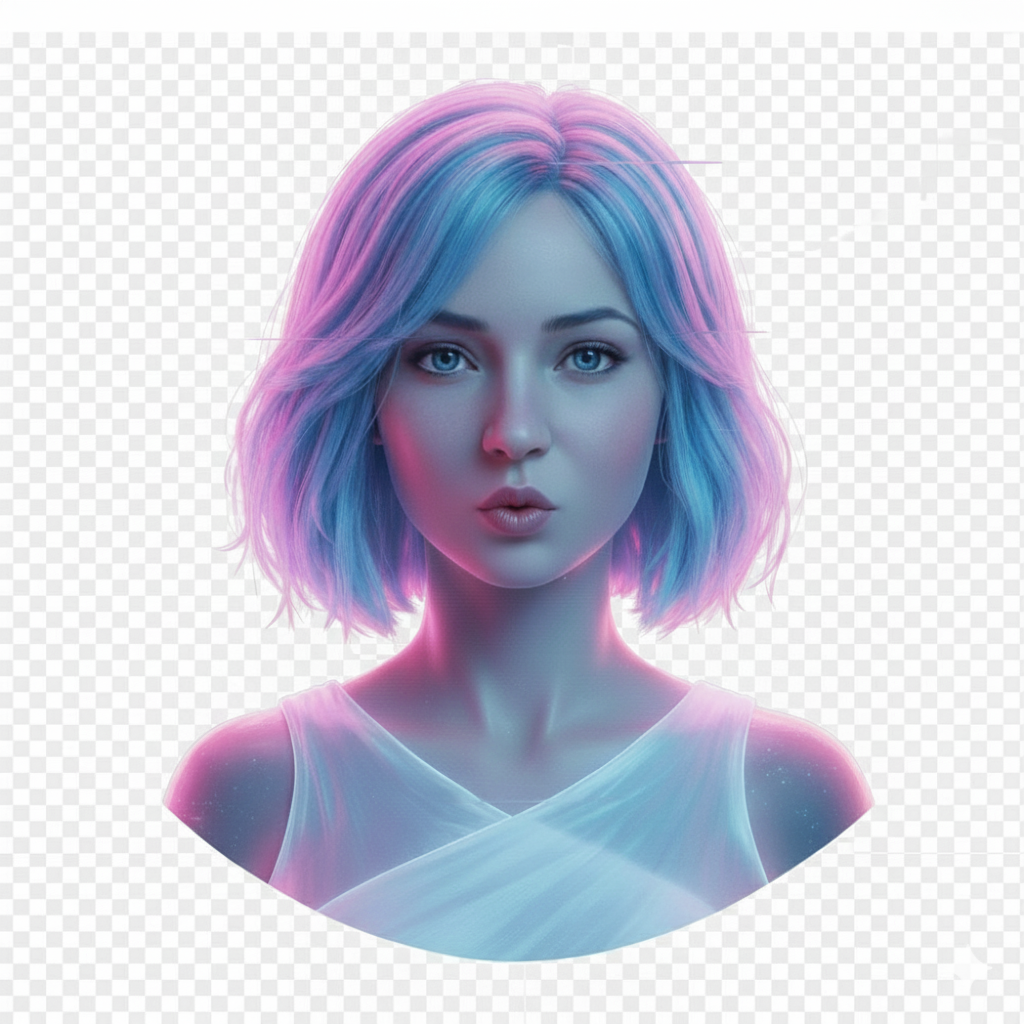
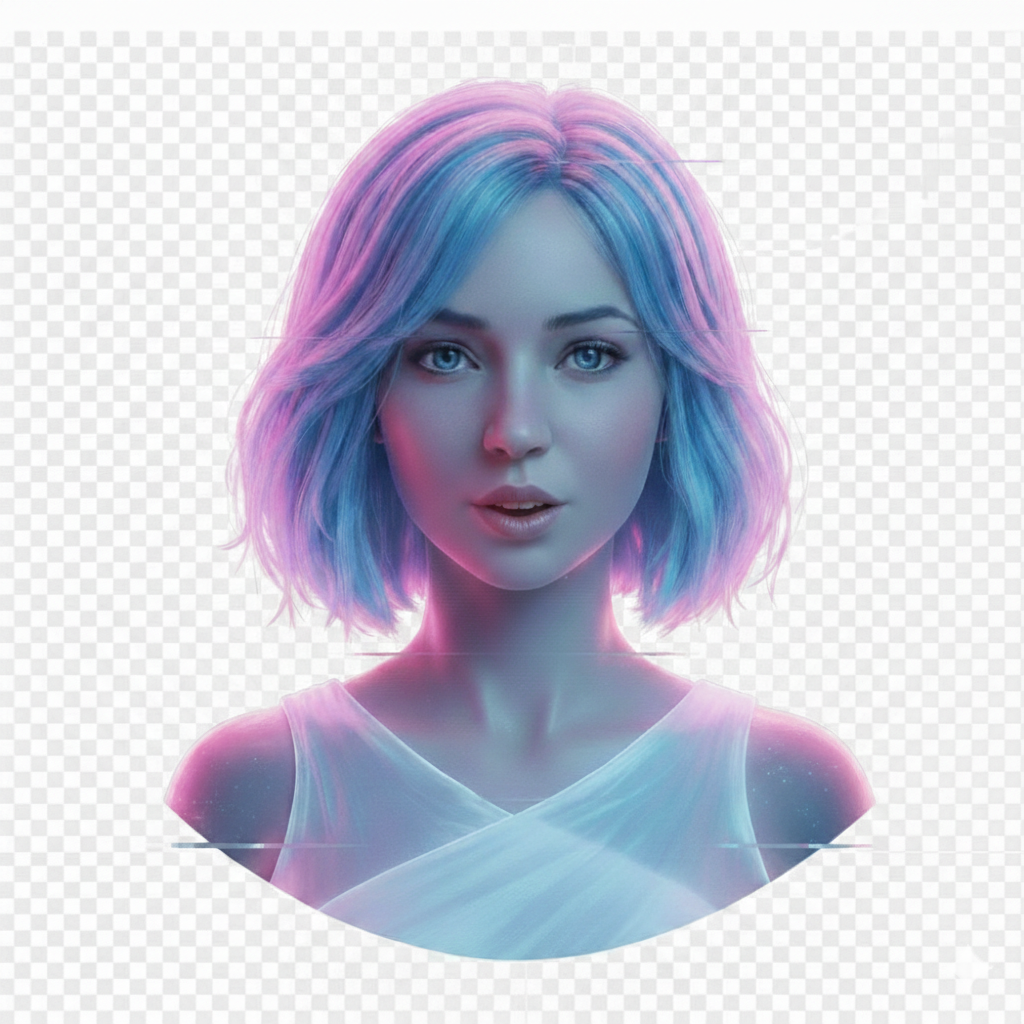
polish: swap to subtler O viseme, remap A/AI phonemes away from wide-open ah

diff --git a/app/ui/components/avatar_js.py b/app/ui/components/avatar_js.py
@@ -233,7 +233,7 @@ def render_avatar(phoneme_timeline, audio_data=None, expression="neutral", audio
         // ── Phoneme to asset mapping ──────────────────────
         const phonemeMap = {{
             "rest": null,
-            "A":    assets["ah"],
+            "A":    assets["O"],
             "E":    assets["ee"],
             "O":    assets["O"],
             "U":    assets["W"],
@@ -247,7 +247,7 @@ def render_avatar(phoneme_timeline, audio_data=None, expression="neutral", audio
             "B":    assets["B"],
             "Oh":   assets["Oh"],
             "W":    assets["W"],
-            "AI":   assets["ah"],
+            "AI":   assets["O"],
             "etc":  null
         }};
 
